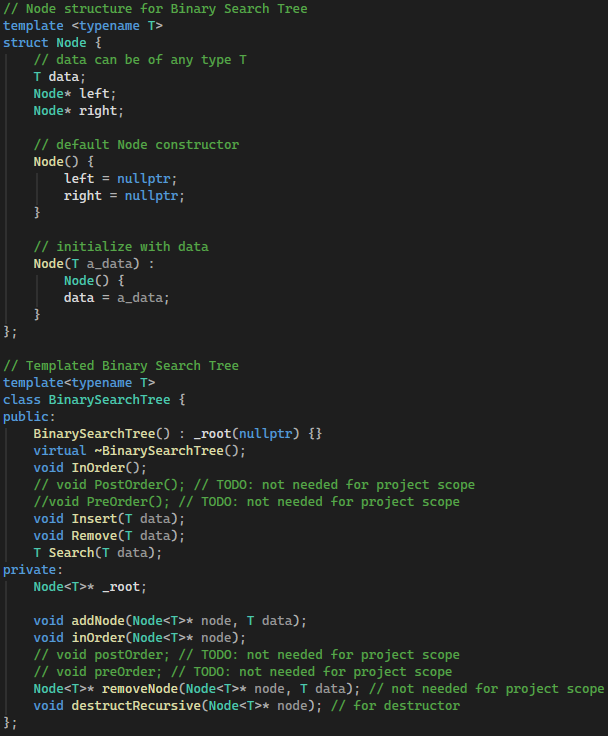
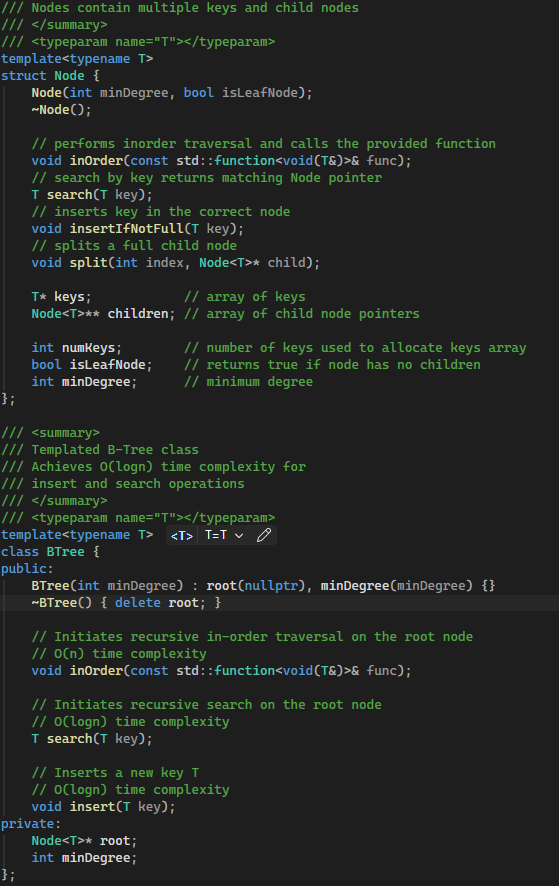
fix b-tree class image

diff --git a/pages/course-list.md b/pages/course-list.md
@@ -47,7 +47,7 @@ I chose to enhance this artifact by implementing a B-Tree data structure to repl
  
 ![B-Tree Node Struct and Class Interfaces](../images/b-tree-class.png)
 
-*Figure 2 – BST Node Struct and Class Interfaces*
+*Figure 2 – B-Tree Node Struct and Class Interfaces*
 
 The course outcome I hope to demonstrate with this enhancement is to design and evaluate computing solutions that solve a given problem using algorithmic principles and computer science practices and standards appropriate to its solution, while managing the trade-offs involved in design choices. I have demonstrated my ability to implement an advanced data structure in the form of a B-Tree, which is a fundamental computer science data structure often used to implement database indexes. I have implemented the B-Tree's insert, search, and in-order traversal methods using efficient algorithms that should guarantee a worst-case O(log n) complexity for insert and search operations and O(n) complexity for traversal. I have also explained the benefits and drawbacks of the B-Tree compared to the BST, which provides a better worst-case complexity for all major operations compared to the BST before rebalancing. The trade-off is that B-Tree code is significantly harder to implement, debug, and maintain when compared to the BST. 
 
